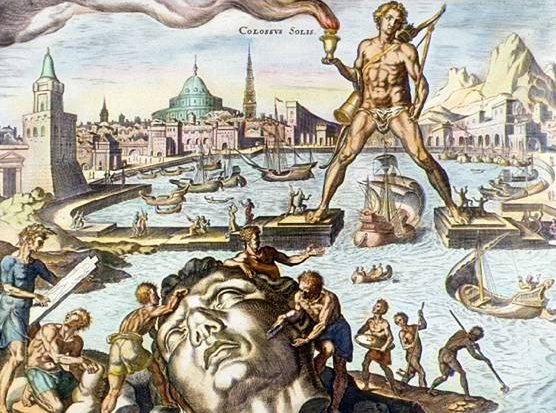
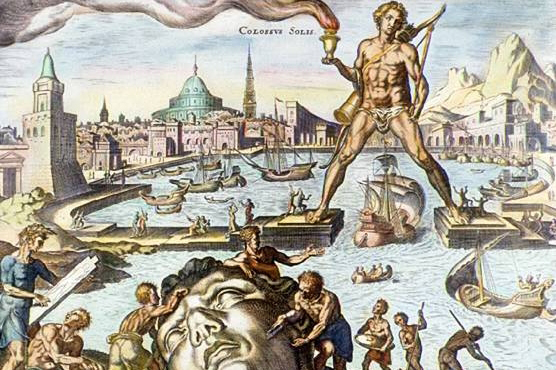
fixed image sizes and indentations

diff --git a/index.html b/index.html
@@ -10,66 +10,66 @@
   <meta name="viewport" content="width=device-width, initial-scale=1">
   <link href="https://fonts.googleapis.com/css?family=Open+Sans:400,400i,700" rel="stylesheet">
 </head>
-  <body>
-    <div class="grid">
-      <div class="unit unit-xs-1 unit-s-1 unit-m-1 unit-l-2-3">
-        <img class="img-flex" src="images/wonders-of-the-ancient-world.jpg" alt="wonders of the ancient world">
-      </div>
-      <div class="unit unit-xs-1 unit-s-1 unit-m-1 unit-l-1-3">
-        <h1>The Seven Wonders of the Ancient World</h1>
-        <p>Remarkable constructions of classical antiquity almost completely lost in time.</p>
-        <p>Come explore the ancient wonders with our amazing teleportation technology that jumps you around the world.</p>
-      </div>
+<body>
+  <div class="grid">
+    <div class="unit unit-xs-1 unit-s-1 unit-m-1 unit-l-2-3">
+      <img class="img-flex" src="images/wonders-of-the-ancient-world.jpg" alt="wonders of the ancient world">
     </div>
-      <div class="grid">
-        <div class="unit unit-xs-1 unit-s-1 unit-m-1-3 unit-l-1-3">
-          <figure>
-          <img class="img-flex" src="images/temple-of-artemis.jpg" alt="temple of artemis">
-          <figcaption>
-      <h2>Temple of Artemis</h2>
-      <dl>
-        <dt>Date of construction:</dt>
-        <dd>Circa 550 BC</dd>
-        <dt>Builders:</dt>
-        <dd>Greeks</dd>
-        <dt>Location:</dt>
-        <dd>Selçuk, Turkey</dd>
-      </dl>
-    </figcaption>
-  </figure>
-      </div>
-      <div class="unit unit-xs-1 unit-s-1-2 unit-m-1-3 unit-l-1-3">
-        <figure>
+    <div class="unit unit-xs-1 unit-s-1 unit-m-1 unit-l-1-3">
+      <h1>The Seven Wonders of the Ancient World</h1>
+      <p>Remarkable constructions of classical antiquity almost completely lost in time.</p>
+      <p>Come explore the ancient wonders with our amazing teleportation technology that jumps you around the world.</p>
+    </div>
+  </div>
+  <div class="grid">
+    <div class="unit unit-xs-1 unit-s-1 unit-m-1-3 unit-l-1-3">
+      <figure>
+        <img class="img-flex" src="images/temple-of-artemis.jpg" alt="temple of artemis">
+        <figcaption>
+          <h2>Temple of Artemis</h2>
+          <dl>
+            <dt>Date of construction:</dt>
+            <dd>Circa 550 BC</dd>
+            <dt>Builders:</dt>
+            <dd>Greeks</dd>
+            <dt>Location:</dt>
+            <dd>Selçuk, Turkey</dd>
+          </dl>
+        </figcaption>
+      </figure>
+    </div>
+    <div class="unit unit-xs-1 unit-s-1-2 unit-m-1-3 unit-l-1-3">
+      <figure>
         <img class="img-flex" src="images/colossus-of-rhodes.jpg" alt="colossus of rhodes">
         <figcaption>
-      <h2>Colossus of Rhodes</h2>
-      <dl>
-        <dt>Date of construction:</dt>
-        <dd>292–280 BC</dd>
-        <dt>Builders:</dt>
-        <dd>Greeks</dd>
-        <dt>Location:</dt>
-        <dd>Rhodes, Greece</dd>
-      </dl>
-    </figcaption>
-  </figure>
-      </div>
-      <div class="unit unit-xs-1 unit-s-1-2 unit-m-1-3 unit-l-1-3">
-        <figure>
+          <h2>Colossus of Rhodes</h2>
+          <dl>
+            <dt>Date of construction:</dt>
+            <dd>292–280 BC</dd>
+            <dt>Builders:</dt>
+            <dd>Greeks</dd>
+            <dt>Location:</dt>
+            <dd>Rhodes, Greece</dd>
+          </dl>
+        </figcaption>
+      </figure>
+    </div>
+    <div class="unit unit-xs-1 unit-s-1-2 unit-m-1-3 unit-l-1-3">
+      <figure>
         <img class="img-flex" src="images/hanging-gardens.jpg" alt="hanging gardens">
         <figcaption>
-        <h2>Hanging Gardens of Babylon</h2>
-        <dl>
-          <dt>Date of construction:</dt>
-          <dd>Circa 600 BC</dd>
-          <dt>Builders:</dt>
-          <dd>Babylonians</dd>
-          <dt>Location:</dt>
-          <dd>Nineveh, Iraq</dd>
-        </dl>
-      </figcaption>
-    </figure>
-        </div>
-      </div>
-  </body>
+          <h2>Hanging Gardens of Babylon</h2>
+          <dl>
+            <dt>Date of construction:</dt>
+            <dd>Circa 600 BC</dd>
+            <dt>Builders:</dt>
+            <dd>Babylonians</dd>
+            <dt>Location:</dt>
+            <dd>Nineveh, Iraq</dd>
+          </dl>
+        </figcaption>
+      </figure>
+    </div>
+  </div>
+</body>
 </html>

diff --git a/css/main.css b/css/main.css
@@ -19,7 +19,6 @@ html {
 
 .img-flex {
   width: 100%;
-  display: block;
 }
 
 body {
